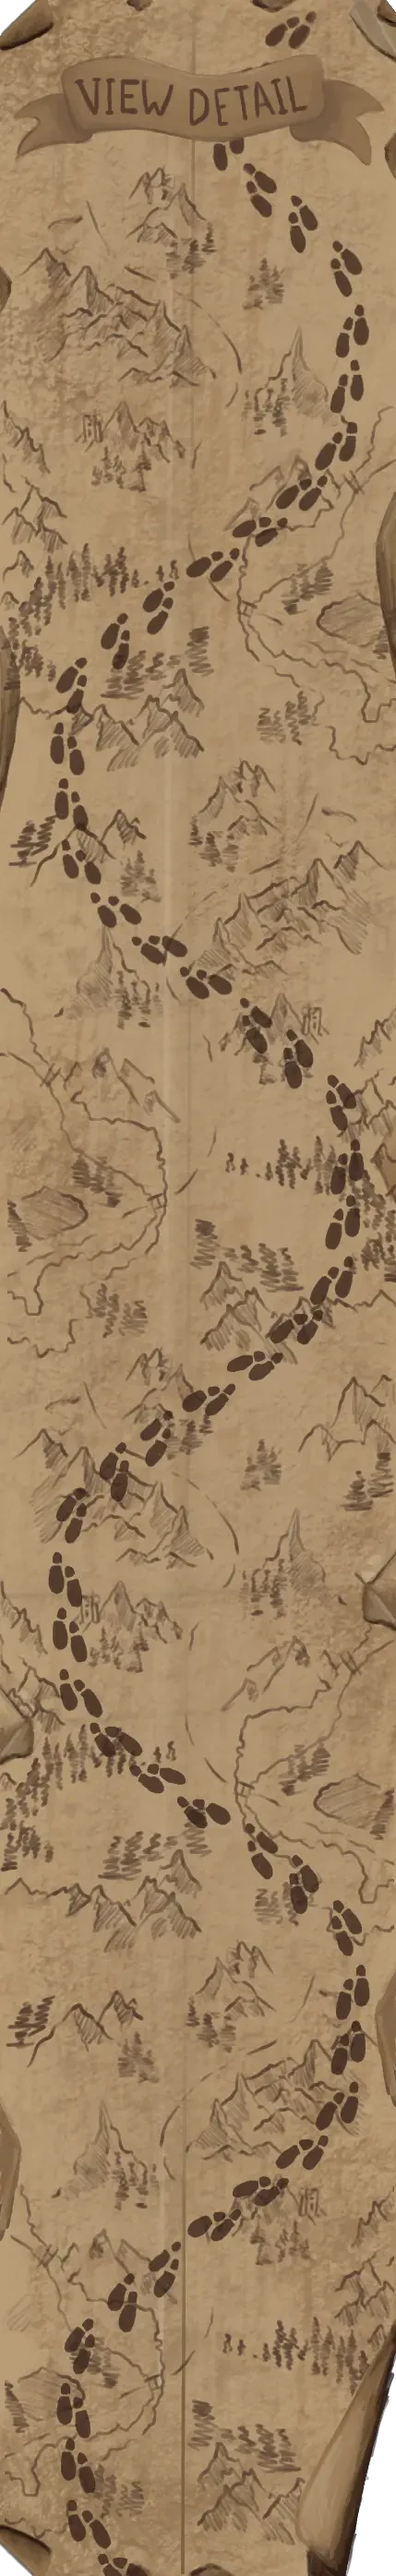
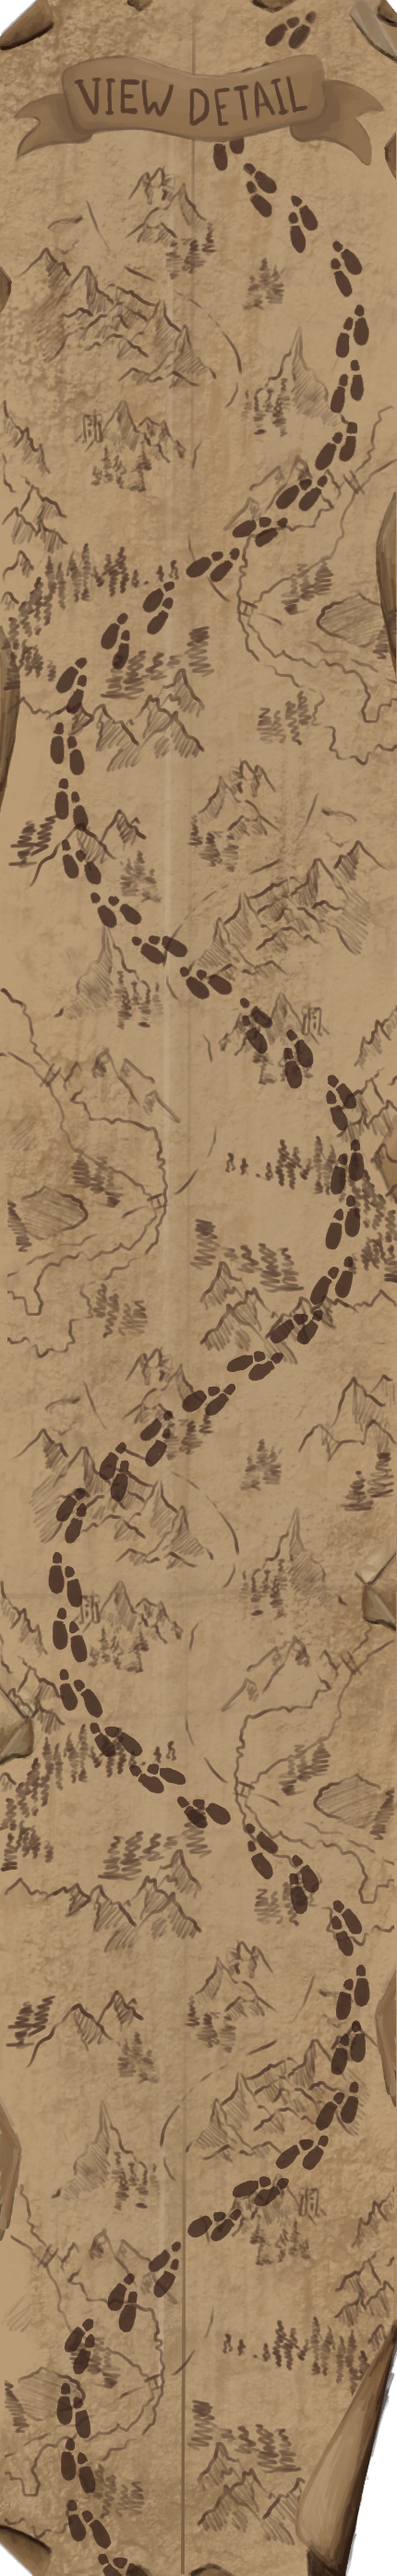
chore: optimize images

diff --git a/src/app/(content)/events/(events)/_components/view-detail-rec.tsx b/src/app/(content)/events/(events)/_components/view-detail-rec.tsx
@@ -1,7 +1,7 @@
 import * as React from "react";
 import { type SVGProps } from "react";
 
-import recImg from "../_assets/rec-img.png";
+import recImg from "../_assets/rec-img.webp";
 
 const ViewDetailRec = (props: SVGProps<SVGSVGElement>) => (
   <svg
